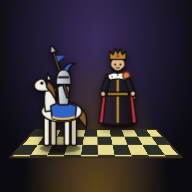
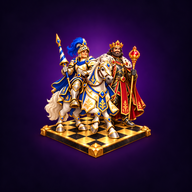
Add files via upload

diff --git a/sw.js b/sw.js
@@ -20,17 +20,23 @@
 })();
 
 /* ChessNest service worker — bump VERSION on every upload */
-const VERSION = 'chessnest-v1';
+const VERSION = 'chessnest-v2';
+/* the drawings live in their own cache: an app update doesn't download 3 MB of art again.
+   Replacing a drawing under the same file name → change ART to a new name (cnart-2). */
+const ART = 'cnart-1';
 const SHELL = ['./', 'manifest.json', 'icon-192.png', 'icon-512.png', 'privacy_policy.html'];
-// when the drawings arrive: add 'img/<set>/wK.webp' … here (and bump VERSION)
+// the default set (idle poses) is ready offline from the first install; everything else under img/ is cached on first use
+const ART_PRE = ['wK', 'wQ', 'wR', 'wB', 'wN', 'wP', 'bK', 'bQ', 'bR', 'bB', 'bN', 'bP'].map(n => 'img/kingdom/' + n + '.webp');
 const ROOT = new URL('./', self.registration.scope).href;
 
 self.addEventListener('install', e => {
   // each file on its own: one failure (weak network) must not leave the cache empty
-  e.waitUntil(caches.open(VERSION).then(c => Promise.allSettled(SHELL.map(u => fetch(u, { cache: 'reload' }).then(r => (r && r.ok ? c.put(u, r) : null))))).then(() => self.skipWaiting()));
+  e.waitUntil(caches.open(VERSION).then(c => Promise.allSettled(SHELL.map(u => fetch(u, { cache: 'reload' }).then(r => (r && r.ok ? c.put(u, r) : null)))))
+    .then(() => caches.open(ART)).then(c => Promise.allSettled(ART_PRE.map(u => c.match(u).then(hit => hit || fetch(u).then(r => (r && r.ok ? c.put(u, r) : null))))))
+    .then(() => self.skipWaiting()));
 });
 self.addEventListener('activate', e => {
-  e.waitUntil(caches.keys().then(ks => Promise.all(ks.filter(k => k.startsWith('chessnest-') && k !== VERSION).map(k => caches.delete(k)))).then(() => self.clients.claim()));
+  e.waitUntil(caches.keys().then(ks => Promise.all(ks.filter(k => (k.startsWith('chessnest-') && k !== VERSION) || (k.startsWith('cnart-') && k !== ART)).map(k => caches.delete(k)))).then(() => self.clients.claim()));
 });
 
 const OFFLINE = '<!doctype html><html lang="he" dir="rtl"><meta charset="utf-8"><meta name="viewport" content="width=device-width,initial-scale=1"><title>ChessNest</title>' +
@@ -58,6 +64,7 @@ self.addEventListener('fetch', e => {
   }
   e.respondWith(caches.match(req, { ignoreSearch: true }).then(hit => hit || fetch(req).then(r => {
     if (r && r.ok && SHELL.some(s => s !== './' && url.pathname.endsWith('/' + s))) { const copy = r.clone(); caches.open(VERSION).then(c => c.put(req, copy)); }
+    else if (r && r.ok && url.pathname.includes('/img/')) { const copy = r.clone(); caches.open(ART).then(c => c.put(req, copy)); }
     return r;
   })));
 });
